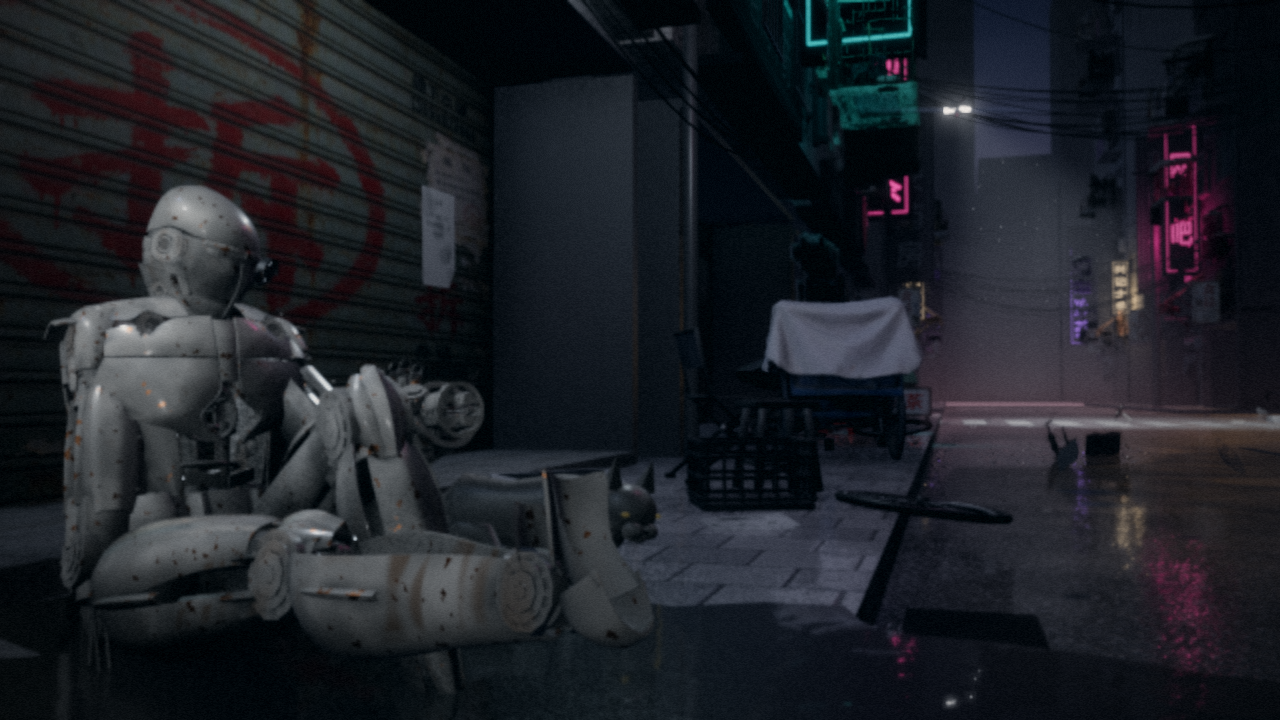
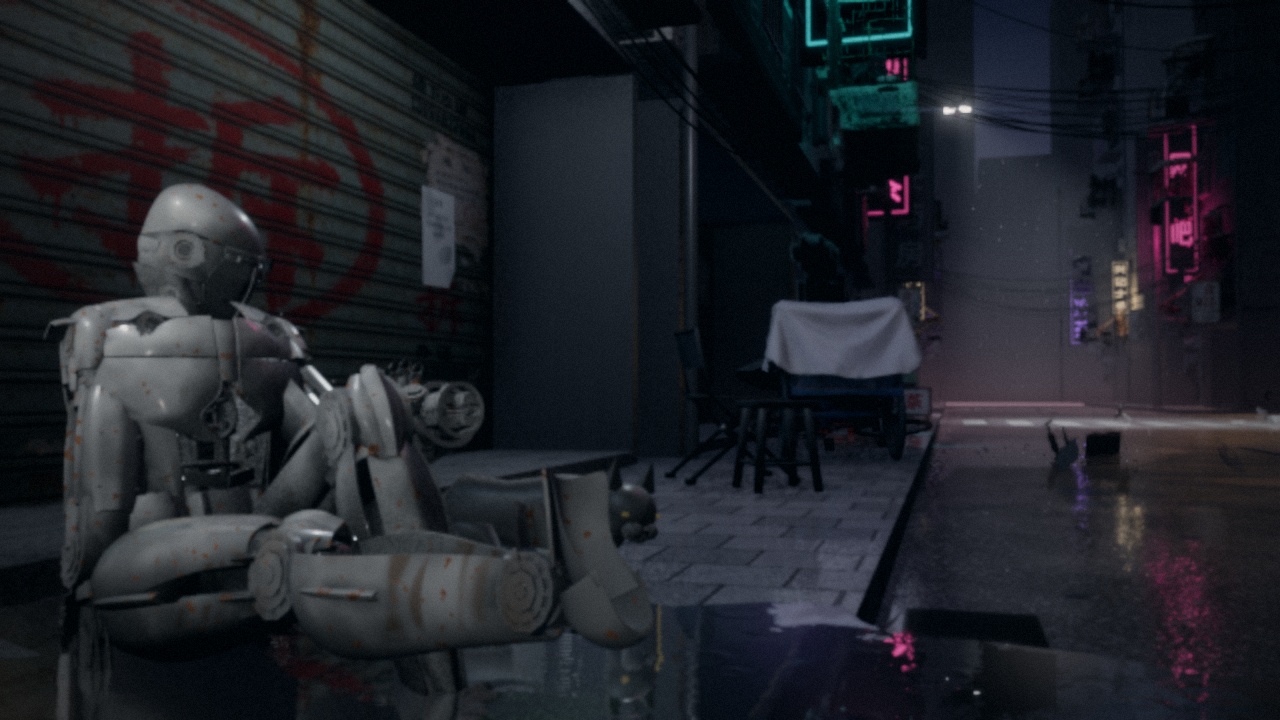
Round 5 fixes: hand-drawn mark lengths, finer wear on the frame, level line on the pencil, dimmer notice, rust (not mirror) chips, halo on the lens, 7 s power-down

diff --git a/src/story/fragment.js b/src/story/fragment.js
@@ -22,7 +22,7 @@ function marksTexture(count) {
   const draw = (n) => {
     g.fillStyle = '#000'; g.fillRect(0, 0, 256, 1024);
     // v3 (critique r4): a pencil and a child's handwriting, not HUD type
-    g.strokeStyle = '#fff'; g.fillStyle = '#fff'; g.lineWidth = 7; g.lineCap = 'round';
+    g.strokeStyle = '#fff'; g.fillStyle = '#fff'; g.lineWidth = 4.5; g.lineCap = 'round';
     g.font = '400 26px "Kaiti SC","STKaiti","KaiTi","PingFang SC",serif';
     if (n > 0) { // the name, written once up the jamb in the same hand
       g.save(); g.globalAlpha = 0.5; g.translate(30, 1024 - (1.78 / 2.12) * 1024); g.font = '400 28px "Kaiti SC","STKaiti","KaiTi",serif';
@@ -33,8 +33,10 @@ function marksTexture(count) {
       const cur = i === n - 1;
       // pencil: two slightly offset light passes per line, every year still legible (review5), this year darkest
       g.globalAlpha = cur ? 0.9 : 0.7;
-      g.beginPath(); g.moveTo(14, y); g.lineTo(118, y + (i % 2 ? 3 : -2)); g.stroke();
-      g.globalAlpha *= 0.5; g.beginPath(); g.moveTo(18, y + 1.5); g.lineTo(112, y + 1 + (i % 2 ? 3 : -2)); g.stroke();
+      // r20: hand-drawn, not a barcode: each year's line a different length and start
+      const x0 = 14 + ((i * 37) % 13) - 6, x1 = 70 + ((i * 53) % 46);
+      g.beginPath(); g.moveTo(x0, y); g.lineTo(x1, y + (i % 2 ? 3 : -2)); g.stroke();
+      g.globalAlpha *= 0.45; g.beginPath(); g.moveTo(x0 + 4, y + 1.5); g.lineTo(x1 - 6, y + 1 + (i % 2 ? 3 : -2)); g.stroke();
       g.globalAlpha = cur ? 1 : 0.7;
       g.font = cur ? '400 38px "Kaiti SC","STKaiti","KaiTi","PingFang SC",serif' : '400 24px "Kaiti SC","STKaiti","KaiTi","PingFang SC",serif';
       g.fillText(m.label, 124, y + (cur ? 12 : 8));
@@ -88,10 +90,10 @@ export default {
     {
       const P = positionWorld;
       const grain = mx_noise_float(vec3(P.z.mul(90), P.y.mul(2.5), P.x.mul(90))).mul(0.5).add(0.5);
-      const worn = smoothstep(0.5, 0.62, mx_noise_float(P.mul(vec3(9, 2.2, 9)).add(3.3)).mul(0.5).add(0.5));
+      const worn = smoothstep(0.5, 0.62, mx_noise_float(P.mul(vec3(30, 8, 30)).add(3.3)).mul(0.5).add(0.5));
       const paint = vec3(0.34, 0.3, 0.24).mul(grain.mul(0.3).add(0.8));
       const bare = vec3(0.16, 0.13, 0.1).mul(grain.mul(0.6).add(0.55));
-      frameMat.colorNode = mix(paint, bare, worn.mul(0.8));
+      frameMat.colorNode = mix(paint, bare, worn.mul(0.35));
       frameMat.emissiveNode = frameMat.colorNode.mul(amberNode()).mul(memoryMask(positionWorld)).mul(0.08);
     }
     // v3: the door itself (GPT Image 2.5 texture): peeling green planks, a faded 福, couplet remnants -- and a cartoon
@@ -121,7 +123,7 @@ export default {
       const onBoard = u.greaterThan(0).and(u.lessThan(1)).and(normalWorld.x.lessThan(-0.5)).and(P.x.lessThan(x - 0.13));
       const ink = onBoard.select(texture(this.marks.tex, vec2(u, v)).r, float(0));
       const wood0 = frameMat.colorNode, glow0 = frameMat.emissiveNode;
-      frameMat.colorNode = mix(wood0, vec3(0.035, 0.033, 0.03), ink.mul(0.9));
+      frameMat.colorNode = mix(wood0, vec3(0.035, 0.033, 0.03), ink.mul(0.75));
       frameMat.roughnessNode = mix(float(0.7), float(0.62), ink);
       frameMat.emissiveNode = glow0.mul(float(1).sub(ink)); // graphite never glows (it read as light lines once the porch light died)
     }
@@ -163,6 +165,7 @@ export default {
     // now: '已验收。此户已腾空。' pasted on the door, and the house number in chalk; neither exists in the memory
     const notice = new THREE.Mesh(new THREE.PlaneGeometry(0.36, 0.5), noticeMaterial(NOTICES[2], 4));
     notice.position.set(x + 0.025, 1.5, z + 0.1); notice.rotation.y = -Math.PI / 2; notice.rotation.z = 0.04; notice.renderOrder = 4;
+    notice.material.colorNode = notice.material.colorNode.mul(0.5); // r20: it was the brightest thing after the light died
     g.add(notice); this.notice = notice; // hidden while the memory plays: it would be the brightest thing in the close-up
     const nc = document.createElement('canvas'); nc.width = 256; nc.height = 96;
     const ng = nc.getContext('2d'); ng.fillStyle = '#000'; ng.fillRect(0, 0, 256, 96);
@@ -221,7 +224,7 @@ export default {
       // closed-loop aim: nudge the head until the eye's axis points at the current mark (no guessed constants)
       this.aim ??= { x: 0, y: 0.1 };
       this._want ??= new THREE.Vector3();
-      this._want.set(DOOR.x - 0.1, target.y, DOOR.z - DOOR.w / 2 - 0.05).sub(m.origin).normalize();
+      this._want.set(DOOR.x - 0.1, target.y - 0.005, DOOR.z - DOOR.w / 2 - 0.3).sub(m.origin).normalize(); // r20: onto the pencil line, not its label
       const yawErr = Math.atan2(this._want.z, this._want.x) - Math.atan2(m.dir.z, m.dir.x);
       const pitchErr = Math.asin(this._want.y) - Math.asin(m.dir.y);
       this.aim.x += yawErr * dt * 2.2;     // +look.x turns the head toward +z in world (verified by the probe)

diff --git a/src/systems/robot/materials.js b/src/systems/robot/materials.js
@@ -58,8 +58,8 @@ export function robotMaterial(name) {
     c = mix(c, vec3(0.3, 0.14, 0.06), chips); // chipped through to rust (review6)
     const pm = new THREE.MeshPhysicalNodeMaterial();
     pm.colorNode = c.add(scratches().mul(0.1)).mul(shellDim);
-    pm.roughnessNode = mix(mix(wetRough(0.45), float(0.3), chips), float(0.6), tears.mul(0.5));
-    pm.metalnessNode = chips.mul(0.85);
+    pm.roughnessNode = mix(mix(wetRough(0.45), float(0.8), chips), float(0.6), tears.mul(0.5));
+    pm.metalnessNode = float(0); // r20: metallic chips rendered as black mirrors; they are rust
     // rain on the shell: beads on everything facing up, thin rivulets running down the sides (a bump, so the
     // clearcoat catches every light in them)
     const up = smoothstep(0.25, 0.8, normalWorldGeometry.y);

diff --git a/src/story/director.js b/src/story/director.js
@@ -131,7 +131,7 @@ export default {
         // once the marks have been read the eye never leaves the door again: no second shop after the climax
         if (frag?.state === 'done') m.lookOverride = { x: 0, y: 0 };
         // after the door memory the eye has nothing left: power runs out within ~14 s
-        if (frag?.state === 'done') this.power = Math.max(0, this.power - dt / 14);
+        if (frag?.state === "done") this.power = Math.max(0, this.power - dt / 7); // r20: ~7 s (14 s read as a long black stretch)
         else if (robot && robot.open > 0.2 && frag?.state !== 'playing') this.power = Math.max(0, this.power - dt / 150);
         m.power = this.power;
         if (this.power <= 0.0) this.set('fade');

diff --git a/src/systems/robot/index.js b/src/systems/robot/index.js
@@ -403,7 +403,7 @@ export default {
       this.coneK.value = o * (1 - 0.35 * flood) * (ctx.memory.goboMode === 'line' ? 0.15 : 1) * Number(ctx.params?.get('cone') ?? 1);
       this.cone.visible = (o > 0.01 || (this.frames ?? 0) < 30) && ctx.params?.get('cone') !== 'off';
       if (this.halo) {
-        this.halo.position.copy(this._v).addScaledVector(this._d, 0.04);
+        this.halo.position.copy(this._v).addScaledVector(this._d, 0.005);
         _toCam.copy(ctx.camera.position).sub(this._v).normalize();
         this.haloK.value = o * (0.25 + 0.75 * Math.max(0, _toCam.dot(this._d)) ** 2);
         this.halo.visible = o > 0.01 || (this.frames ?? 0) < 30;

diff --git a/docs/review7/critique-claude.md b/docs/review7/critique-claude.md
@@ -1,0 +1,35 @@
+# review7 批判(Claude,美术指导,截止前最后一轮)
+
+**一句话**:高潮终于读得出"十一岁",flood 第一次像目标图;但玩家停留最久的注视镜头里,光束照到的仍是米色的地面和墙,霓虹都在光束外面。
+
+**对比 review6**
+- 改好了:木板上的刻度和"十一岁"清楚了;叶影删了;光束内不再烧白;圆灯箱"表"没了;flood 的"红星旅社""卡拉OK"字形干净,有灯笼、行人和亮灯的车;等待镜头的头转向了镜头;门上新贴的"已验收"是很好的叙事。
+- 没改好:注视镜头仍然只看到后脑勺(第二次报);光束内仍是琥珀色,不是霓虹;猫仍是黑球加黄眼(第三次报);外壳崩漆在代码里改成了锈色,画面上仍是黑点;现在态的招牌仍是乱码(第四次报);flood 卷帘门上的"拆"圈还在(第四次报)。
+
+## Bug(先修)
+1. **play-13 黑屏约 14 秒。** 片段结束后,整条街只剩门上一块亮斑(570–720,290–420),头盔和街道全黑。同一机位的 play-06 是能看清的。查片段结束后谁关掉了现在态的街灯和霓虹(`mains` 或 LightPool),恢复它们;director.js 里 `power - dt/14` 改成 `dt/6`。
+2. **招牌被光束边缘切成半截。** play-06 的"红星旅社"只有最底下一根灯管亮(655–785,100–112)。neon/materials.js:7 的遮罩按像素算。把 `neonTint` 和 `neonPower` 合并成一个 vec4,腾出一个顶点缓冲给 `neonAnchor`,改成 `memoryMask(anchor)`,整块招牌一起亮或一起灭。
+3. **线状光斑打在字上,不在线上。** play-12 的白条(600–665,346–360)正好压在"一"字上。fragment.js:224 的瞄准点 `z − hw − 0.05` 落在标签那一列(u≈0.74),铅笔线在 u 0.05–0.46。改为 `z − hw − 0.30`,`y = target.y − 0.005`。
+4. **断管缺口切掉了关键笔画。** street-eye 有"十如C"(715–745,185–320)、"兴记ト多"(士变成了ト)、"Tuil"(840–875,85–145)。atlas.js:54–67 只在边框上开缺口,不要切字形。
+5. **镜片有两个光斑。** play-04 在(450,350)和(500,362)各一个。光晕片沿视线前移了 0.04 m,斜着看就和镜片核心错开了。改成前移 0.005 m。
+6. **门缝漏光。** fragment-late 的 x≈1195 有一条贯穿整个画面高度的亮线。"已验收"是画面里最亮的东西,像一张白卡片;颜色乘 0.45,加一点潮湿的褶皱。
+7. flood 路面上有一张发光的白纸(860–940,620–700),没有接触阴影,像浮在地上。play-08 撑伞的行人像站在车顶上(615–690,365–450)。
+
+## Top 5(按每分钟的画面收益排序)
+
+1. **注视镜头:光束要照出霓虹,不是米色雾(30–40 分钟)。** play-06/08 的光束内只有墙、现在的白车和一个穿卫衣的人;招牌在光束上方;最饱和的是光束外现在态的青色"卡拉OK"(play-08,200–265,95–345)。光束下半部打在近处路面上,形成一块米色的板(300–1000,450–650)。
+   改:robot/index.js:344 `open*0.32` → `open*0.44`,让视线抬高约 7°,锥体上沿盖住 3–5 m 高的招牌带(改完确认门的 `lit > 0.45` 仍能触发);look 阶段 `spotTarget` 从 0.42 降到 0.2,`coneK` 乘 0.6;neon/materials.js 现在态的 `masks.g.mul(1.7)` 降到 1.0。配合 Bug 2。验收:play-06 的光束里至少有 2 块亮着的招牌。
+
+2. **高潮木板:像条形码,不像铅笔(15 分钟)。** play-12 的每条刻度都是 1.4 cm 粗、20 cm 长、一模一样的黑杠,像尺子。板顶有大块竖向暗斑(430–750,0–330),看着像阴影。
+   改:fragment.js:25 `lineWidth` 从 7 改为 3,删掉第二遍描线;线长按年份在 55–90 px 之间变化,起点抖动 ±6 px;:124 `ink.mul(0.9)` 改为 0.6(铅笔是灰的,不是黑的)。暗斑来自 :91 的 `worn` 噪声:频率 `vec3(9,2.2,9)` 改为 `vec3(30,8,30)`,混合量 `worn.mul(0.8)` 改为 0.35。
+
+3. **外壳的黑色斑点(5 分钟,每个机器人镜头都受益)。** play-04 整屏、eye-hero、robot-wide 上全是黑点:锈色的崩漆被 `metalness 0.85` 反射成了黑色的环境。
+   改:robot/materials.js:62 崩漆的 metalness 改为 0(锈不是金属),:61 崩漆的粗糙度从 0.3 改为 0.8;:53 噪声频率从 55 改为 20,阈值 `smoothstep(0.8,0.88)`。改完是更少、更大、沿边缘的橙褐色剥落。
+
+4. **注视镜头看不到镜片(20 分钟,第二次报)。** memory.jpg 的核心是"镜片发出光束",play-05/06/08 前景只有后脑勺(150–330,520–720)。
+   改:director.js:109 `pos = eye − dir·0.35 − side·0.9`,`y = eye.y + 0.1`;`look = eye + dir·7 + side·2`;fov 46。镜片落在头盔轮廓的左上边缘,光束从它出发往右下走。
+
+5. **等待镜头的猫和死镜片(10 分钟,第三次报)。** robot-wide 的猫(600–660,470–530)是黑球加两颗黄眼。
+   改:cat/index.js:21 灰度从 0.07 改为 0.26,口鼻 0.1 改为 0.6;睡着时 `catEye` 设为 0(:15 和 :164 改为只乘 `awake`);闭着的镜片给 0.15 的琥珀余烬自发光。
+
+**时间够的话**:flood 里给"拆"贴图加 `maskNode = memoryMask().lessThan(0.5)`;白车在记忆里关上车门;右下角的米色雾降低 50%。
